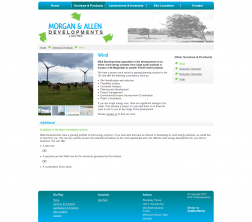
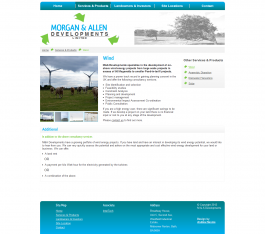
items view completed

diff --git a/assets/css/style.css b/assets/css/style.css
@@ -22,13 +22,11 @@ body,
 	clear: left;
 }
 
-li:first-child,
 header nav#supplementary li:first-child,
 nav#global li:first-child{
 	margin-left: 0;
 }
 
-li:last-child,
 header nav#supplementary li:last-child,
 nav#global li:last-child {
 	margin-right: 0;
@@ -49,7 +47,6 @@ a:visited {
 }
 
 li {
-	font-weight: bold;
 	font-size: 0.78em;
 }
 
@@ -68,7 +65,8 @@ h1, h2 {
 }
 
 h2,
-.title p {
+.title p,
+footer h6 {
 	font-style: italic;
 	font-weight: normal;
 }
@@ -87,10 +85,21 @@ h6 {
 
 h4 {
 	font-size: 1em;
+}
+
+footer h6 {
+	font-size: .95em;
+}
+
+h4,
+li,
+footer h5 {
 	font-weight: bold;
 }
 
-h1, h4 {
+h1,
+h4,
+footer h5 {
 	color: #4F4F51;
 }
 
@@ -113,7 +122,11 @@ h3 {
 }
 
 
-
+header,
+#container,
+footer {
+	overflow: hidden;
+}
 
 
 /* ---------- HEADER ---------- */
@@ -121,7 +134,6 @@ h3 {
 header {
 	border-top: 10px solid #333434;
 	padding-top: 20px;
-	overflow: hidden;
 }
 
 header nav#supplementary {
@@ -179,6 +191,7 @@ nav#global li {
 	width: 136px;
 	height: 136px;
 	margin: 0 18px;
+	position: relative;
 }
 
 nav#global li.selected {
@@ -224,17 +237,33 @@ nav#global li#ux a:hover,
 nav#global li#other a:hover {
 	background-color: #4F4F51;
 	-webkit-transition-property: background;
-	-webkit-transition-duration: .3s
-} 
+	-webkit-transition-duration: .4s
+}
+
+header nav .pointer {
+	border-left: 15px solid transparent;
+	border-right: 15px solid transparent;
+	border-bottom: 15px solid #333;
+	position: absolute;
+	bottom: -36px;
+	left: 55px;
+}
+
+.front-end header nav .pointer { border-bottom-color: #f15a22; }
+.ux header nav .pointer { border-bottom-color: #B2D235; }
+.other header nav .pointer { border-bottom-color: #AB4A9C; }
+
 /* ---------------------------- */
 /* ---------- //HEADER -------- */
 
 
 
 
-
 /* ----------- CONTAINER -------- */
 /* ------------------------------ */
+#container {
+	margin-bottom: 40px;
+}
 
 #container .title {
 	background: #eee;
@@ -256,13 +285,29 @@ nav#global li#other a:hover {
 
 #container .col {
 	float: left;
-	width: 290px;
-	background: url("/assets/i/vert-separator.png") no-repeat;
-	background-position: right 50px;
+	width: 313px;
 }
 
-#container .col:last-child {
-	background: none;
+#container .col#codeigniter {
+	width: 315px;
+}
+
+#container .col#codeigniter,
+#container .col#custom {
+	background: url("/assets/i/vert-separator.png") no-repeat;
+	background-position-y: 90px;
+}
+
+#container .col#codeigniter {
+	background-position-x: 288px;
+}
+
+#container .col#custom {
+	background-position-x: 19px;
+}
+
+#container .col#wordpress {
+	width: 271px;
 }
 
 #container .col h4 {
@@ -279,6 +324,82 @@ nav#global li#other a:hover {
 	margin-top: 10px;
 }
 
+#container .col#custom ul {
+	float: right;
+}
+
 #container .col li {
-	margin-bottom: 17px;
+	margin-bottom: 30px;
+	position: relative;
+}
+
+#container .col li a.fancybox {
+	border-bottom: 5px solid #fff;
+}
+
+#container .col li a.fancybox:hover {
+	border-bottom: 5px solid #333;
+}
+
+.front-end #container .col li a.fancybox:hover { border-color: #f15a22; }
+.ux #container .col li a.fancybox:hover { border-color: #B2D235; }
+.other #container .col li a.fancybox:hover { border-color: #AB4A9C; }
+
+#container .col li .link {
+	position: absolute;
+	top: 10px;
+	left: 10px;
+}
+
+#container .col li .desc {
+	display: none;
+}
+
+#container .col li .link {
+	height: 29px;
+	width: 29px;
+	background: url("/assets/i/link-icon.png") no-repeat;
+	border: 0;
+}
+
+.front-end #container .col li .link:hover { background-image: url("/assets/i/link-icon-front-hover.png"); }
+.ux #container .col li .link:hover { background-image: url("/assets/i/link-icon-ux-hover.png"); }
+.other #container .col li .link:hover { background-image: url("/assets/i/link-icon-other-hover.png"); }
+
+/* ---------------------------- */
+/* ---------- //CONTAINER------- */
+
+
+
+
+/* ----------- FOOTER ----------- */
+/* ------------------------------ */
+footer {
+	background: #eee;
+	border-bottom: 10px solid #333434;
+	padding: 0 15px 15px;
+}
+
+footer .border {
[1 lines of base64/hex data omitted]
+	display: block;
+	height: 10px;
+	margin-bottom: 10px
+}
+
+footer hgroup {
+	float: left;
+}
+
+footer nav {
+	float: right;
+}
+
+footer nav li {
+	float: right;
+	margin: 0 15px 15px;
+}
+
+footer nav li.front-end {
+	clear: both;
 }

diff --git a/assets/js/scripts.js b/assets/js/scripts.js
@@ -1,22 +1,27 @@
 function getFrontEndItems() {
 	
 	var items;
-	$.get("/index.php/items/getItems?callback=?", function(items){
+	$.get("/index.php/items/getCategoryItems/Front-End?callback=?", function(items){
 
 		items = $.parseJSON(items);
 
 		$.each(items, function(k,v) {
-			if (v.site_url.length == 0){
-				var link = '';
+
+			if (typeof(v.site_url) == "object"){
 				var span = '';
 			}
-			else {
-				var link = v.name;
-				var span = '<img class="link" src="span-image-link-thingy.png" />';
+			else { 
+				var link = v.site_url;
+				var span = '<a href="' + link + '" class="link"></a>';
+				
 			}
 
 			var html = '<li>\n\
-							<a class="fancybox" href="/assets/i/items/' + v.image_url + '"> ' + span + '<img src="' + v.thumb_url + '" alt="' + v.name + '"/></a> \n\
+							<a class="fancybox" href="/assets/i/items/' + v.image_url + '" title="' + v.name + '"> '
+								+ '<img src="' + v.thumb_url + '" alt="' + v.name + '"/>\n\
+							</a> \n\ \n\ '
+							 + span + '  \n\
+							<p class="desc">' + v.desc + '</p>	\n\
 						</li>';
 
 			var hoverHtml = '<h4>' + v.name + '</h4><p>' + v.desc + '</p>';
@@ -25,8 +30,8 @@ function getFrontEndItems() {
 				$('#codeigniter ul').append(html);
 			}
 
-			if (v.subCat == 'UX') {
-				$('#ux ul').append(html);
+			if (v.subCat == 'WordPress') {
+				$('#wordpress ul').append(html);
 			}
 
 			if (v.subCat == 'Custom') {
@@ -35,5 +40,23 @@ function getFrontEndItems() {
 		});
 
 	});
+
+}
+
+function getFooter() {
+
+	var supplementary = $('#supplementary ul').children();
+	var global = $('#global ul').children();
+
+	var footerMenu = new Array( supplementary, global);
+	footerMenu.concat(supplementary, global);
+
+	$.each(footerMenu, function(k,v){
+
+			//can't get it working at the moment
+			//want to generate footer menu based on header menus
+
+
+	})
 
 }

diff --git a/application/controllers/items.php b/application/controllers/items.php
@@ -22,12 +22,7 @@ class Items extends CI_Controller {
 	public function index() {
 		$this->setItems();
 		$this->load->view('header');
-		$this->load->view('homepage');
-	}
-
-	public function getItems() {
-		$this->setItems();
-		echo $this->portfoliomodel->getPortfolioItems();
+		$this->load->view('items');
 	}
 
 	public function getItem() {
@@ -41,7 +36,8 @@ class Items extends CI_Controller {
 	}
 
 	public function getCategoryItems ( $category ) {
-		$categoryItems = $this->portfoliomodel->getPortfolioItemsFromCategory( $category );
+		$this->setItems();
+		$categoryItems = $this->portfoliomodel->getPortfolioItemsFromCategory( $category ); 
 		echo $categoryItems;
 	}
 

diff --git a/application/models/portfoliomodel.php b/application/models/portfoliomodel.php
@@ -50,7 +50,7 @@ class Portfoliomodel extends CI_Model {
 		
 		foreach ( $this->portfolioItems as $item ) {
 
-			if ( $item->cat == $category ) {
+			if ( $item->cat == $category ) { 
 				$categoryItems[] = $item;
 			}
 
@@ -65,8 +65,8 @@ class Portfoliomodel extends CI_Model {
 		$config[ 'image_library' ] = 'gd2';
 		$config[ 'create_thumb' ] = TRUE;
 		$config[ 'maintain_ratio' ] = TRUE;
-		$config[ 'width' ]	 = 252;
-		$config[ 'height' ]	= 243;
+		$config[ 'width' ]	 = 265;
+		$config[ 'height' ]  = 250;
 
 		foreach ( $items as $item ) {
 
